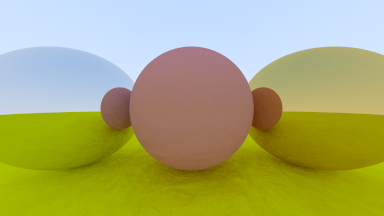
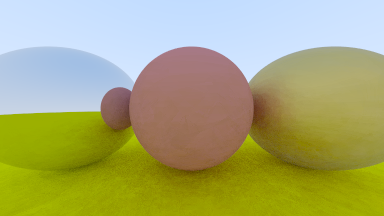
fuzz

Changed region(s): [[0.625, 0.3889, 1.0, 0.8056], [0.7188, 0.1944, 0.9062, 0.2778], [0.9062, 0.2222, 0.9688, 0.25]]

diff --git a/raytracing/render.go b/raytracing/render.go
@@ -81,8 +81,8 @@ func Render() {
 	world := HittableList{hittables: []Hittable{
 		&Sphere{center: vec3(0, 0, -1), radius: 0.5, material: &Lambertian{albedo: vec3(0.7, 0.3, 0.3)}},
 		&Sphere{center: vec3(0, -100.5, -1), radius: 100, material: &Lambertian{albedo: vec3(0.8, 0.8, 0.0)}},
-		&Sphere{center: vec3(1, 0, -1), radius: 0.5, material: &Metal{albedo: vec3(0.8, 0.6, 0.2)}},
-		&Sphere{center: vec3(-1, 0, -1), radius: 0.5, material: &Metal{albedo: vec3(0.8, 0.8, 0.8)}},
+		&Sphere{center: vec3(1, 0, -1), radius: 0.5, material: &Metal{albedo: vec3(0.8, 0.6, 0.2), fuzz: 1.0}},
+		&Sphere{center: vec3(-1, 0, -1), radius: 0.5, material: &Metal{albedo: vec3(0.8, 0.8, 0.8), fuzz: 0.0}},
 	}}
 
 	var waitGroup sync.WaitGroup

diff --git a/raytracing/material.go b/raytracing/material.go
@@ -19,11 +19,12 @@ func (lambertian *Lambertian) scatter(rIn *Ray, rec *HitRecord, attenuation *Col
 
 type Metal struct {
 	albedo Color
+	fuzz   float64
 }
 
 func (metal *Metal) scatter(rIn *Ray, rec *HitRecord, attenuation *Color, scattered *Ray, random *rand.Rand) bool {
 	reflected := reflect(unit(rIn.direction), rec.normal)
-	*scattered = Ray{origin: rec.p, direction: reflected}
+	*scattered = Ray{origin: rec.p, direction: add(reflected, mul(randomInUnitSphere(random), metal.fuzz))}
 	*attenuation = metal.albedo
 	return (dot(scattered.direction, rec.normal) > 0)
 }
